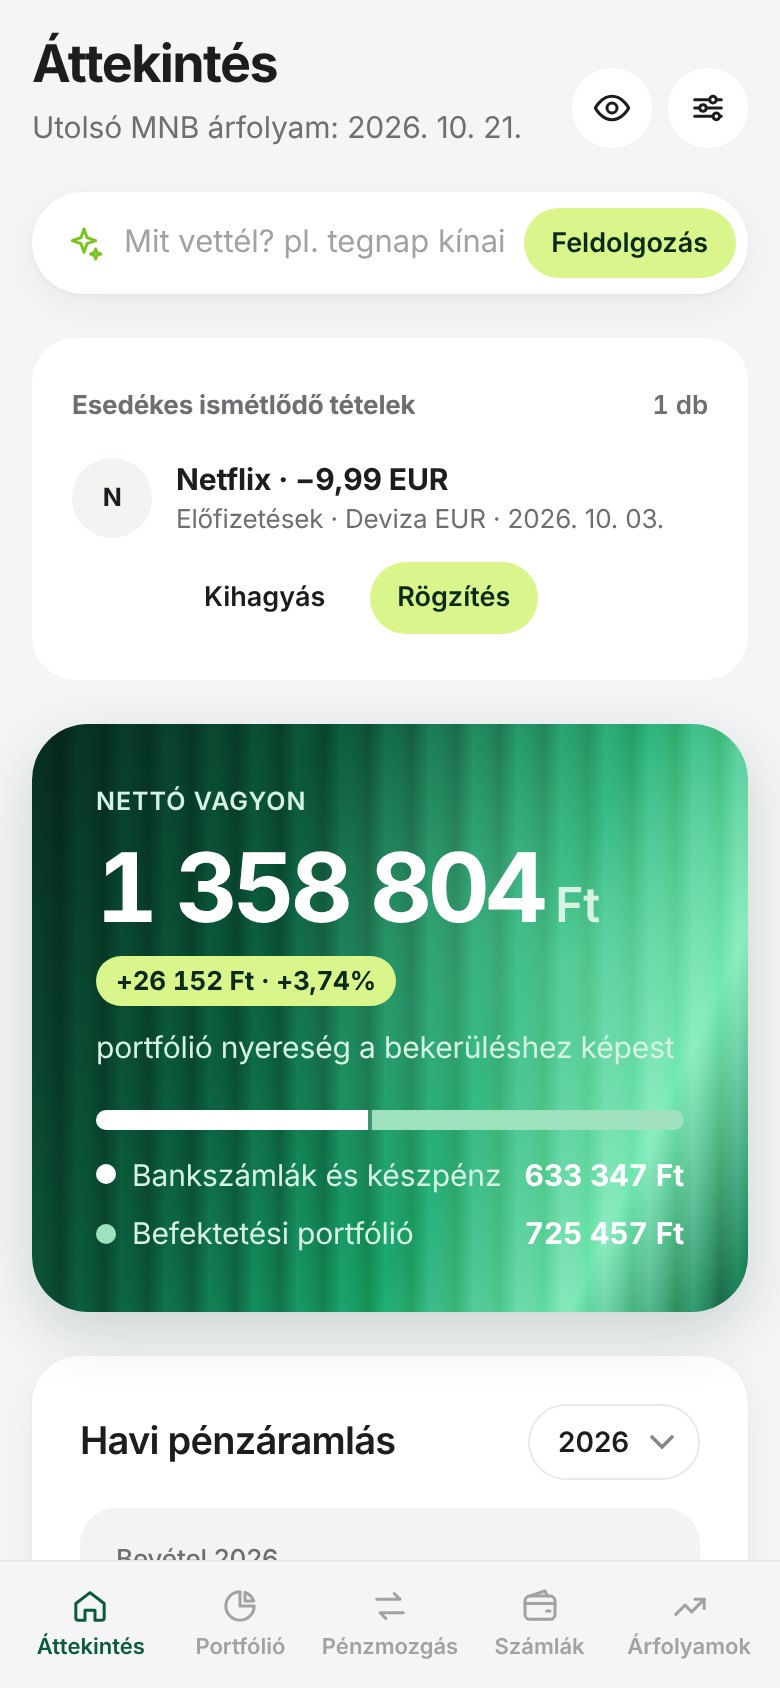
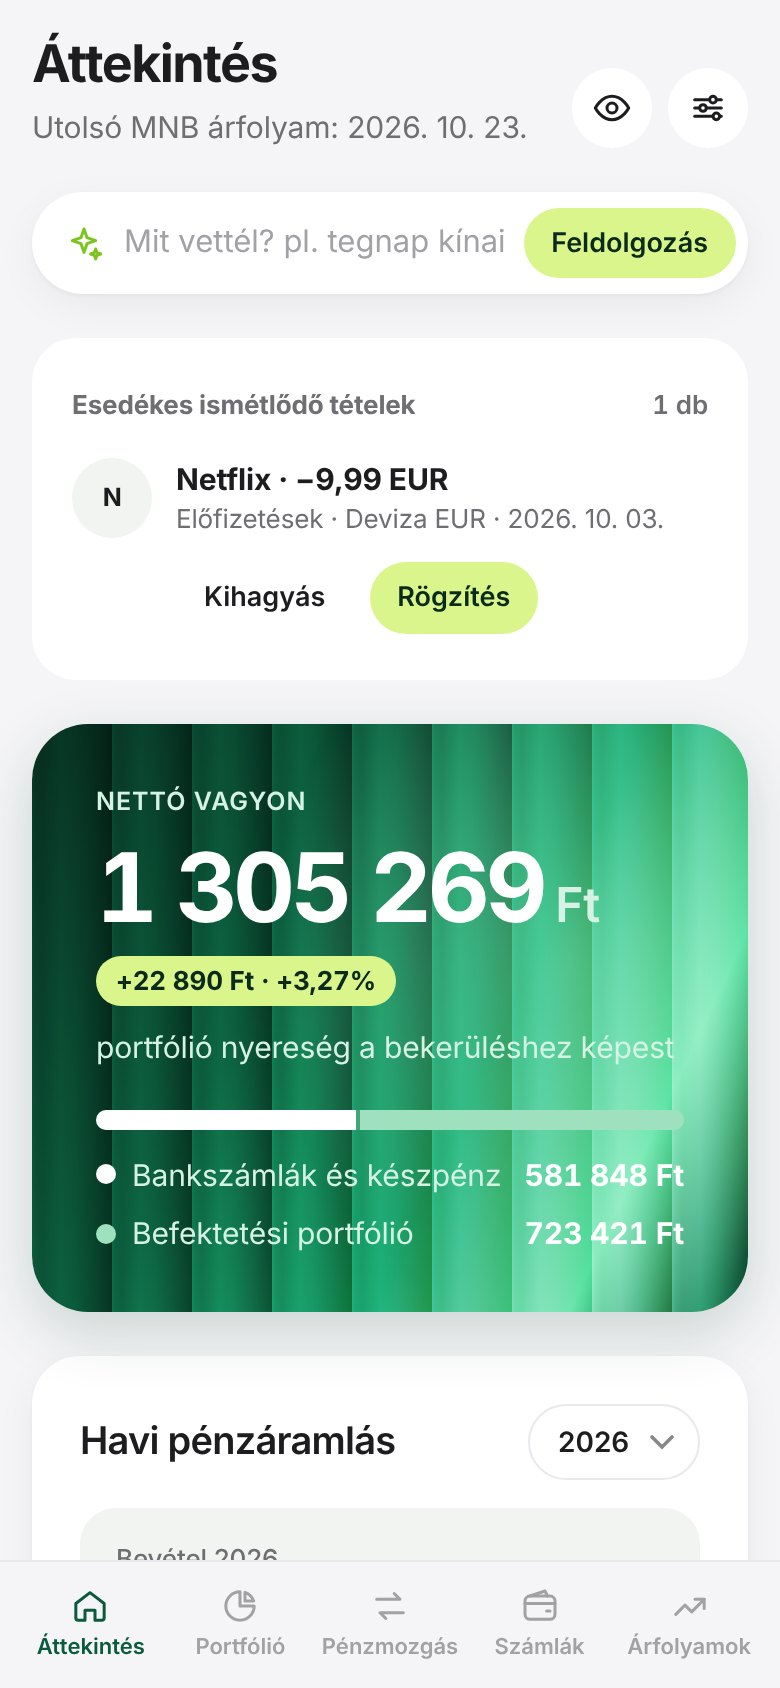
Tisztább, szélesebb bordázat a Nettó vagyon kártyán és a bemutató oldalon (a Design-vászonon kiválasztott változat)
Claude-Session: https://claude.ai/code/session_014GYFBtvPjEAHp1RnSR99F3

diff --git a/index.html b/index.html
@@ -64,7 +64,7 @@ p{text-wrap:pretty}
 
 /* ---------- hero ---------- */
 .hero{position:relative;overflow:hidden;color:#fff;background:linear-gradient(115deg,var(--green-900) 0%,var(--green-700) 35%,var(--green-500) 62%,var(--mint) 82%,#0d6b45 100%);padding:156px 0 0}
-.hero::before{content:"";position:absolute;inset:0;background:repeating-linear-gradient(90deg,rgba(255,255,255,.10) 0px,rgba(255,255,255,0) 7px,rgba(0,0,0,.18) 14px,rgba(255,255,255,.06) 22px);mix-blend-mode:overlay;pointer-events:none}
+.hero::before{content:"";position:absolute;inset:0;background:repeating-linear-gradient(90deg,rgba(255,255,255,.24) 0px,rgba(255,255,255,.10) 1.5px,rgba(255,255,255,.03) 5px,rgba(255,255,255,.16) 14px,rgba(255,255,255,.05) 21px,rgba(0,0,0,.14) 29px,rgba(0,0,0,.38) 38px,rgba(0,0,0,.44) 40px);mix-blend-mode:overlay;pointer-events:none}
 .hero::after{content:"";position:absolute;inset:0;background:radial-gradient(60% 70% at 78% 30%,rgba(160,255,210,.3),transparent 70%),linear-gradient(180deg,transparent 70%,rgba(6,42,29,.35));pointer-events:none}
 .hero .wrap{position:relative;z-index:1}
 .hero h1{font-size:clamp(42px,6.6vw,76px);font-weight:800;max-width:11.5em;margin:0 0 22px}
@@ -119,7 +119,7 @@ section{padding:112px 0}
 
 /* ---------- how it works ---------- */
 .how{background:var(--green-900);color:#fff;position:relative;overflow:hidden}
-.how::before{content:"";position:absolute;inset:0;background:repeating-linear-gradient(90deg,rgba(255,255,255,.035) 0px,rgba(255,255,255,0) 7px,rgba(0,0,0,.12) 14px);pointer-events:none}
+.how::before{content:"";position:absolute;inset:0;background:repeating-linear-gradient(90deg,rgba(255,255,255,.06) 0px,rgba(255,255,255,.02) 5px,rgba(255,255,255,.05) 14px,rgba(0,0,0,0) 24px,rgba(0,0,0,.14) 38px,rgba(0,0,0,.18) 40px);pointer-events:none}
 .how .wrap{position:relative}
 .how .intro p{color:rgba(255,255,255,.74)}
 .flow{display:grid;grid-template-columns:1.1fr auto 1fr auto 1fr auto 1fr;align-items:stretch}
@@ -153,7 +153,7 @@ section{padding:112px 0}
 /* ---------- final ---------- */
 .final{padding:0 0 104px}
 .final .box{position:relative;overflow:hidden;border-radius:28px;color:#fff;padding:56px;background:linear-gradient(115deg,var(--green-900) 0%,var(--green-700) 40%,var(--green-500) 75%,var(--mint) 100%);display:flex;align-items:center;justify-content:space-between;gap:28px;flex-wrap:wrap}
-.final .box::before{content:"";position:absolute;inset:0;background:repeating-linear-gradient(90deg,rgba(255,255,255,.10) 0px,rgba(255,255,255,0) 7px,rgba(0,0,0,.18) 14px,rgba(255,255,255,.06) 22px);mix-blend-mode:overlay;pointer-events:none}
+.final .box::before{content:"";position:absolute;inset:0;background:repeating-linear-gradient(90deg,rgba(255,255,255,.24) 0px,rgba(255,255,255,.10) 1.5px,rgba(255,255,255,.03) 5px,rgba(255,255,255,.16) 14px,rgba(255,255,255,.05) 21px,rgba(0,0,0,.14) 29px,rgba(0,0,0,.38) 38px,rgba(0,0,0,.44) 40px);mix-blend-mode:overlay;pointer-events:none}
 .final .box>*{position:relative}
 .final h2{font-size:clamp(28px,3.6vw,40px);font-weight:800;max-width:14em}
 .final p{margin:10px 0 0;color:rgba(255,255,255,.84)}

diff --git a/app/index.html b/app/index.html
@@ -259,7 +259,7 @@ body{font-family:var(--font);letter-spacing:-.005em}
 .hero .big small{color:#d6f2e5}
 .sel{border-color:#e8e8ed}
 .hero{position:relative;overflow:hidden;background:linear-gradient(115deg,#062a1d 0%,#0b5a3b 35%,#1aa36a 62%,#7fe8b8 82%,#0d6b45 100%)}
-.hero::before{content:"";position:absolute;inset:0;background:repeating-linear-gradient(90deg,rgba(255,255,255,.10) 0px,rgba(255,255,255,0) 7px,rgba(0,0,0,.18) 14px,rgba(255,255,255,.06) 22px);mix-blend-mode:overlay;pointer-events:none}
+.hero::before{content:"";position:absolute;inset:0;background:repeating-linear-gradient(90deg,rgba(255,255,255,.24) 0px,rgba(255,255,255,.10) 1.5px,rgba(255,255,255,.03) 5px,rgba(255,255,255,.16) 14px,rgba(255,255,255,.05) 21px,rgba(0,0,0,.14) 29px,rgba(0,0,0,.38) 38px,rgba(0,0,0,.44) 40px);mix-blend-mode:overlay;pointer-events:none}
 .hero::after{content:"";position:absolute;inset:0;background:radial-gradient(60% 90% at 75% 40%,rgba(160,255,210,.35),transparent 70%);pointer-events:none}
 .hero>*{position:relative;z-index:1}
 :root{--primary:#0b5a3b;--on-primary:#fff;--pos:#12804f;--pos-bg:#e3f5ea;--s1:#1f9d63;--s3:#1f9d63}
